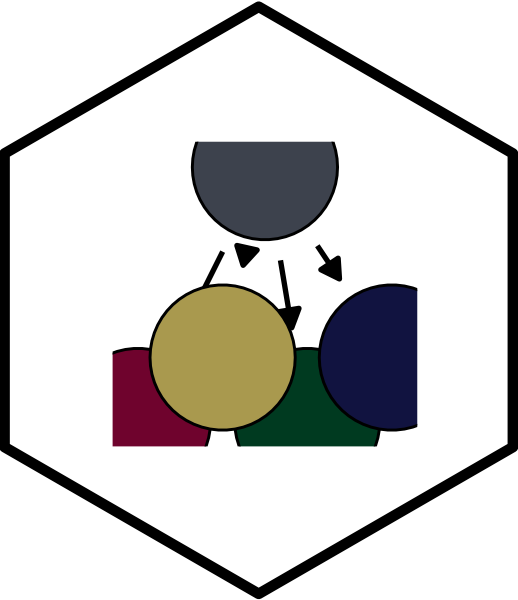
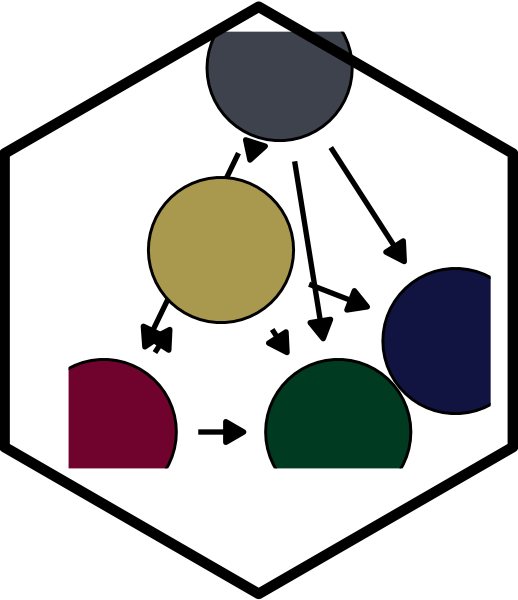
Updating sticker again

Changed region(s): [[0.1236, 0.03, 0.9575, 0.78]]

diff --git a/docs/index.html b/docs/index.html
@@ -30,7 +30,7 @@ ul.task-list li input[type="checkbox"] {
 <script src="site_libs/quarto-search/fuse.min.js"></script>
 <script src="site_libs/quarto-search/quarto-search.js"></script>
 <meta name="quarto:offset" content="./">
-<link href="./images/sticker.png" rel="icon" type="image/png">
+<link href="./images/stickerv2.png" rel="icon" type="image/png">
 <script src="site_libs/quarto-html/quarto.js"></script>
 <script src="site_libs/quarto-html/popper.min.js"></script>
 <script src="site_libs/quarto-html/tippy.umd.min.js"></script>
@@ -81,7 +81,7 @@ ul.task-list li input[type="checkbox"] {
       <div class="navbar-container container-fluid">
       <div class="navbar-brand-container mx-auto">
     <a href="./index.html" class="navbar-brand navbar-brand-logo">
-    <img src="./images/sticker.png" alt="" class="navbar-logo">
+    <img src="./images/stickerv2.png" alt="" class="navbar-logo">
     </a>
     <a class="navbar-brand" href="./index.html">
     <span class="navbar-title">Brian Lookabaugh</span>

diff --git a/docs/blog/2024/causal-inference-simulation/index.html b/docs/blog/2024/causal-inference-simulation/index.html
@@ -66,7 +66,7 @@ pre > code.sourceCode > span > a:first-child::before { text-decoration: underlin
 <script src="../../../site_libs/quarto-search/fuse.min.js"></script>
 <script src="../../../site_libs/quarto-search/quarto-search.js"></script>
 <meta name="quarto:offset" content="../../../">
-<link href="../../../images/sticker.png" rel="icon" type="image/png">
+<link href="../../../images/stickerv2.png" rel="icon" type="image/png">
 <script src="../../../site_libs/quarto-html/quarto.js"></script>
 <script src="../../../site_libs/quarto-html/popper.min.js"></script>
 <script src="../../../site_libs/quarto-html/tippy.umd.min.js"></script>

diff --git a/docs/blog/2024/dynamic-causal-inference/index.html b/docs/blog/2024/dynamic-causal-inference/index.html
@@ -66,7 +66,7 @@ pre > code.sourceCode > span > a:first-child::before { text-decoration: underlin
 <script src="../../../site_libs/quarto-search/fuse.min.js"></script>
 <script src="../../../site_libs/quarto-search/quarto-search.js"></script>
 <meta name="quarto:offset" content="../../../">
-<link href="../../../images/sticker.png" rel="icon" type="image/png">
+<link href="../../../images/stickerv2.png" rel="icon" type="image/png">
 <script src="../../../site_libs/quarto-html/quarto.js"></script>
 <script src="../../../site_libs/quarto-html/popper.min.js"></script>
 <script src="../../../site_libs/quarto-html/tippy.umd.min.js"></script>

diff --git a/docs/blog/2024/nfl-workflow/index.html b/docs/blog/2024/nfl-workflow/index.html
@@ -66,7 +66,7 @@ pre > code.sourceCode > span > a:first-child::before { text-decoration: underlin
 <script src="../../../site_libs/quarto-search/fuse.min.js"></script>
 <script src="../../../site_libs/quarto-search/quarto-search.js"></script>
 <meta name="quarto:offset" content="../../../">
-<link href="../../../images/sticker.png" rel="icon" type="image/png">
+<link href="../../../images/stickerv2.png" rel="icon" type="image/png">
 <script src="../../../site_libs/quarto-html/quarto.js"></script>
 <script src="../../../site_libs/quarto-html/popper.min.js"></script>
 <script src="../../../site_libs/quarto-html/tippy.umd.min.js"></script>

diff --git a/docs/blog/2024/simulating-panel-data/index.html b/docs/blog/2024/simulating-panel-data/index.html
@@ -66,7 +66,7 @@ pre > code.sourceCode > span > a:first-child::before { text-decoration: underlin
 <script src="../../../site_libs/quarto-search/fuse.min.js"></script>
 <script src="../../../site_libs/quarto-search/quarto-search.js"></script>
 <meta name="quarto:offset" content="../../../">
-<link href="../../../images/sticker.png" rel="icon" type="image/png">
+<link href="../../../images/stickerv2.png" rel="icon" type="image/png">
 <script src="../../../site_libs/quarto-html/quarto.js"></script>
 <script src="../../../site_libs/quarto-html/popper.min.js"></script>
 <script src="../../../site_libs/quarto-html/tippy.umd.min.js"></script>

diff --git a/docs/blog/index.html b/docs/blog/index.html
@@ -31,7 +31,7 @@ ul.task-list li input[type="checkbox"] {
 <script src="../site_libs/quarto-search/fuse.min.js"></script>
 <script src="../site_libs/quarto-search/quarto-search.js"></script>
 <meta name="quarto:offset" content="../">
-<link href="../images/sticker.png" rel="icon" type="image/png">
+<link href="../images/stickerv2.png" rel="icon" type="image/png">
 <script src="../site_libs/quarto-listing/list.min.js"></script>
 <script src="../site_libs/quarto-listing/quarto-listing.js"></script>
 <script src="../site_libs/quarto-html/quarto.js"></script>

diff --git a/docs/research/index.html b/docs/research/index.html
@@ -30,7 +30,7 @@ ul.task-list li input[type="checkbox"] {
 <script src="../site_libs/quarto-search/fuse.min.js"></script>
 <script src="../site_libs/quarto-search/quarto-search.js"></script>
 <meta name="quarto:offset" content="../">
-<link href="../images/sticker.png" rel="icon" type="image/png">
+<link href="../images/stickerv2.png" rel="icon" type="image/png">
 <script src="../site_libs/quarto-html/quarto.js"></script>
 <script src="../site_libs/quarto-html/popper.min.js"></script>
 <script src="../site_libs/quarto-html/tippy.umd.min.js"></script>

diff --git a/docs/resume/index.html b/docs/resume/index.html
@@ -30,7 +30,7 @@ ul.task-list li input[type="checkbox"] {
 <script src="../site_libs/quarto-search/fuse.min.js"></script>
 <script src="../site_libs/quarto-search/quarto-search.js"></script>
 <meta name="quarto:offset" content="../">
-<link href="../images/sticker.png" rel="icon" type="image/png">
+<link href="../images/stickerv2.png" rel="icon" type="image/png">
 <script src="../site_libs/quarto-html/quarto.js"></script>
 <script src="../site_libs/quarto-html/popper.min.js"></script>
 <script src="../site_libs/quarto-html/tippy.umd.min.js"></script>
